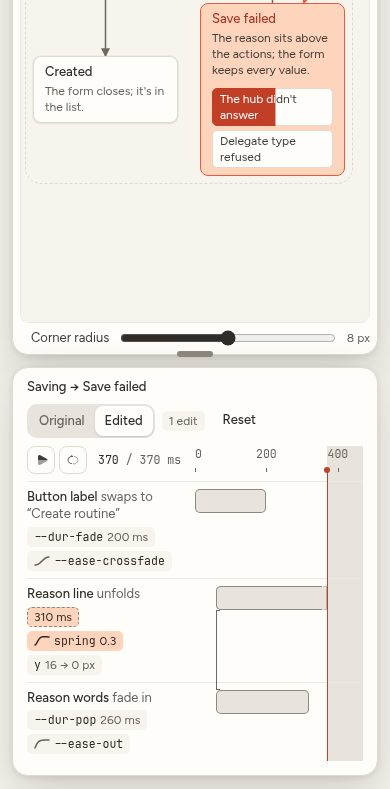
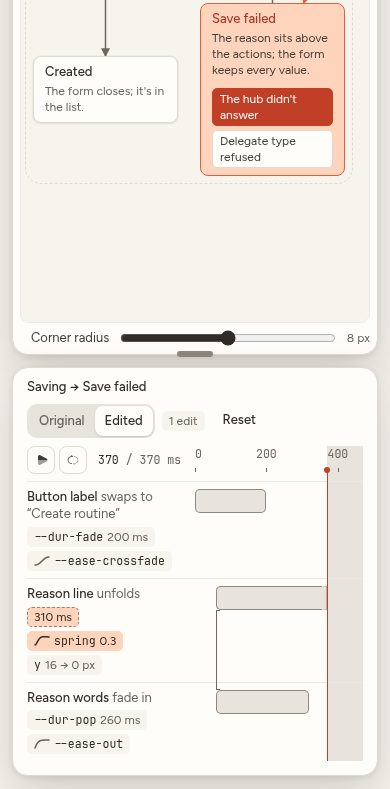
Design-graph mockup r21: a redrawn graph shows its chips settled at once
data-instant now names the tier layer (.var::after) in its own rule; :is()
takes no pseudo-elements, so the clip-path wipe still ran on a redraw (the
full-page capture's resize caught it mid-way). check.mjs: right after a
redraw every chip's tier layer stands at its final clip with nothing running
on the chip or its ::after, and no frame of the capture's redraw is mid-wipe.

Changed region(s): [[0.6769, 0.0913, 0.8615, 0.1825]]

diff --git a/.mockups/design-graph/page.html b/.mockups/design-graph/page.html
@@ -1879,7 +1879,9 @@ html[data-stack] .dock { position: relative; inset: auto; max-block-size: none; 
 @media (prefers-reduced-motion: reduce) { .var::after { transition: none; } }
 /* A graph drawn anew (a tab, a resize, a relayout) takes its tiers at once: only a change of state on a graph
    already drawn fades between them. */
-.world[data-instant] :is(.node, .var, .var::after) { transition: none; }
+.world[data-instant] :is(.node, .var) { transition: none; }
+/* Its own rule: :is() takes no pseudo-elements, so the tier layer is named apart. */
+.world[data-instant] .var::after { transition: none; }
 .var:focus-visible { outline: var(--focus-ring-width) solid var(--focus-ring); outline-offset: var(--focus-ring-offset); }
 
 /* The zoom group: 24px items in a 30px group, 2px in, so 5px + 3px = the group's 8px (The Concentric Rule). */

diff --git a/.mockups/design-graph/style.css b/.mockups/design-graph/style.css
@@ -118,7 +118,9 @@ html[data-stack] .dock { position: relative; inset: auto; max-block-size: none; 
 @media (prefers-reduced-motion: reduce) { .var::after { transition: none; } }
 /* A graph drawn anew (a tab, a resize, a relayout) takes its tiers at once: only a change of state on a graph
    already drawn fades between them. */
-.world[data-instant] :is(.node, .var, .var::after) { transition: none; }
+.world[data-instant] :is(.node, .var) { transition: none; }
+/* Its own rule: :is() takes no pseudo-elements, so the tier layer is named apart. */
+.world[data-instant] .var::after { transition: none; }
 .var:focus-visible { outline: var(--focus-ring-width) solid var(--focus-ring); outline-offset: var(--focus-ring-offset); }
 
 /* The zoom group: 24px items in a 30px group, 2px in, so 5px + 3px = the group's 8px (The Concentric Rule). */
